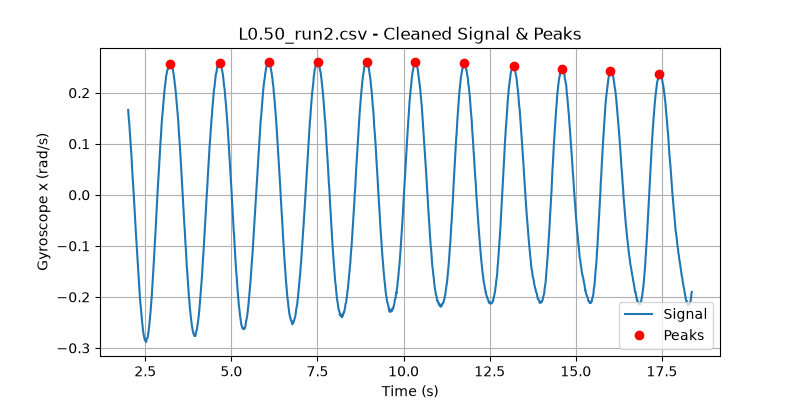
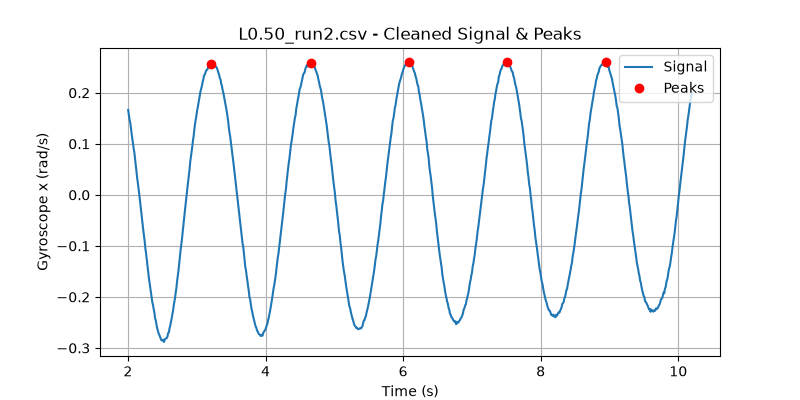
trim noise and update results to g=10.76

diff --git a/analyze.py b/analyze.py
@@ -31,8 +31,14 @@ for f in files:
     t = df["Time (s)"].values
     dt = t[1] - t[0]
 
-    # cut last and first 2 secs
-    mask = (t > 2.0) & (t < (t.max() - 2.0))
+    if "L0.50" in name:
+        t_max_limit = 10.2
+    elif "L0.70" in name:
+        t_max_limit = 17.5
+    else:
+        t_max_limit = t.max() - 2.0
+
+    mask = (t > 2.0) & (t < t_max_limit)  # cut start and end seconds from run
     df_clean = df[mask]
     t_clean = df_clean["Time (s)"].values
 
@@ -63,7 +69,9 @@ for f in files:
     plt.title(f"{name} - Cleaned Signal & Peaks")
     plt.legend()
     plt.grid(True)
-    plt.savefig(f"plots/{name.replace('.csv', '.png')}")
+
+    plot_name = f"L{str(L).replace('.', '_')}_{name.split('_')[1].replace('.csv', '')}.png"
+    plt.savefig(f"plots/{plot_name}")
     plt.close()
 
 data = pd.DataFrame(results).sort_values("L")
